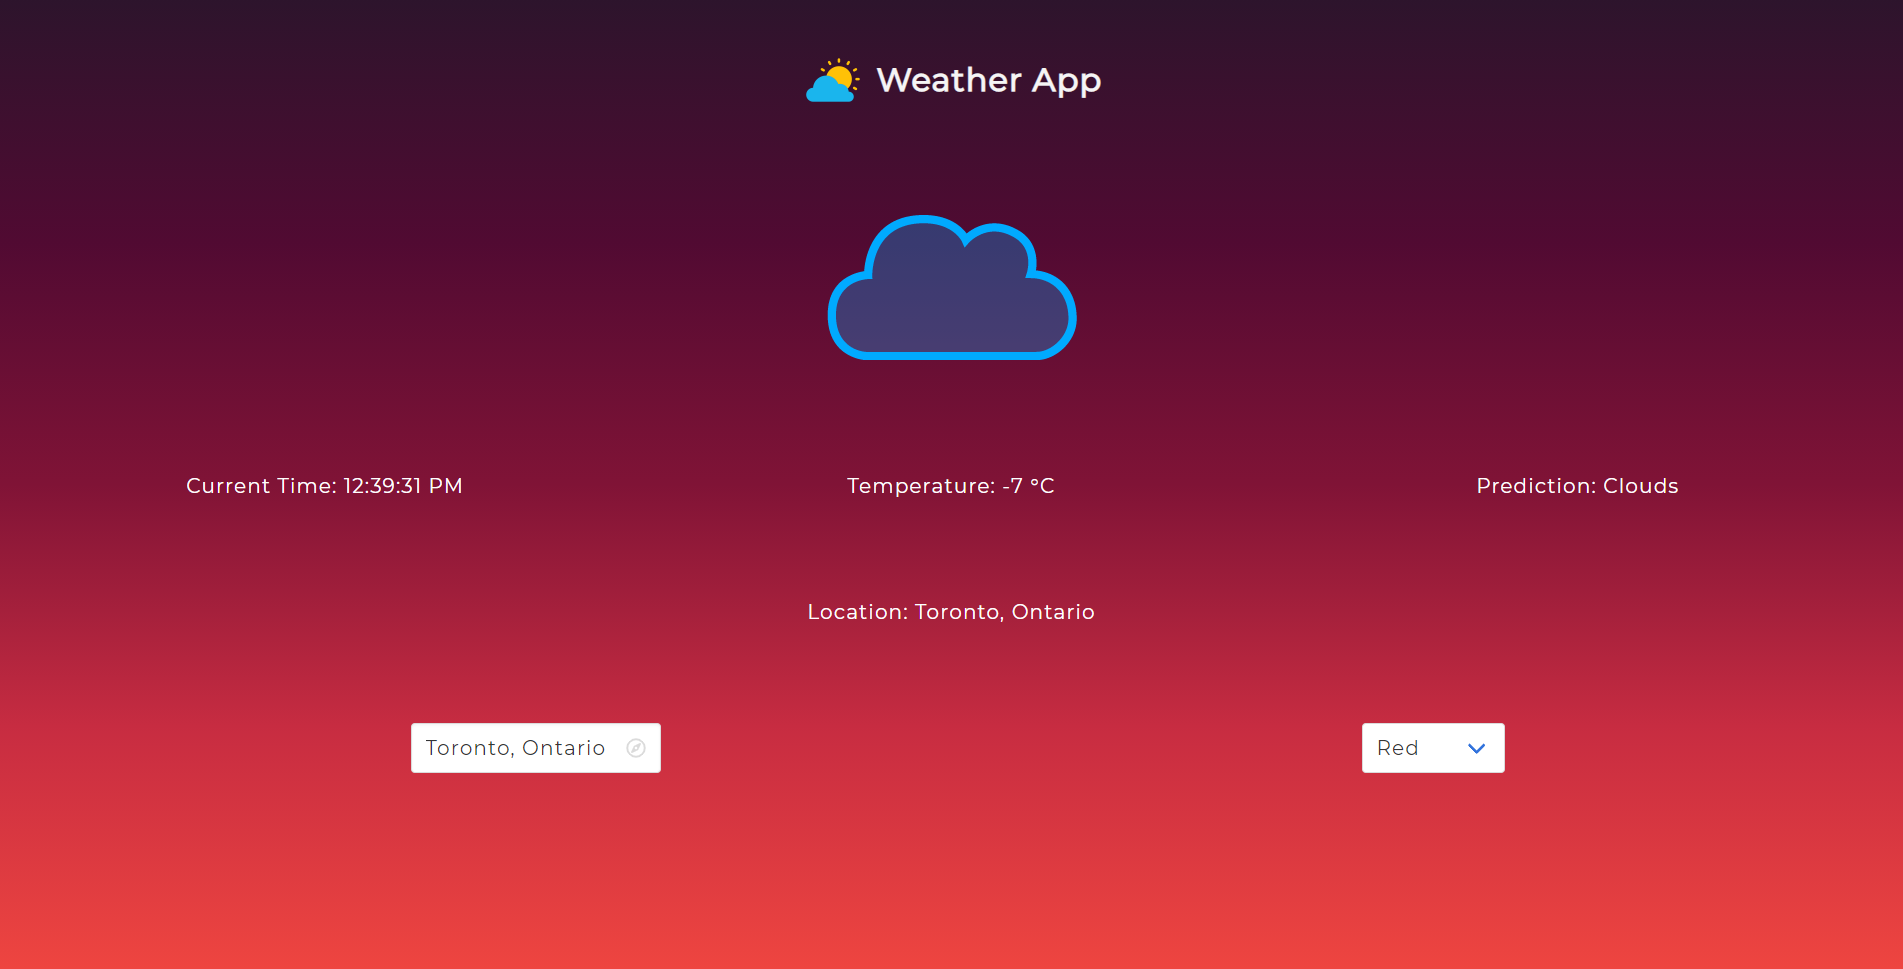
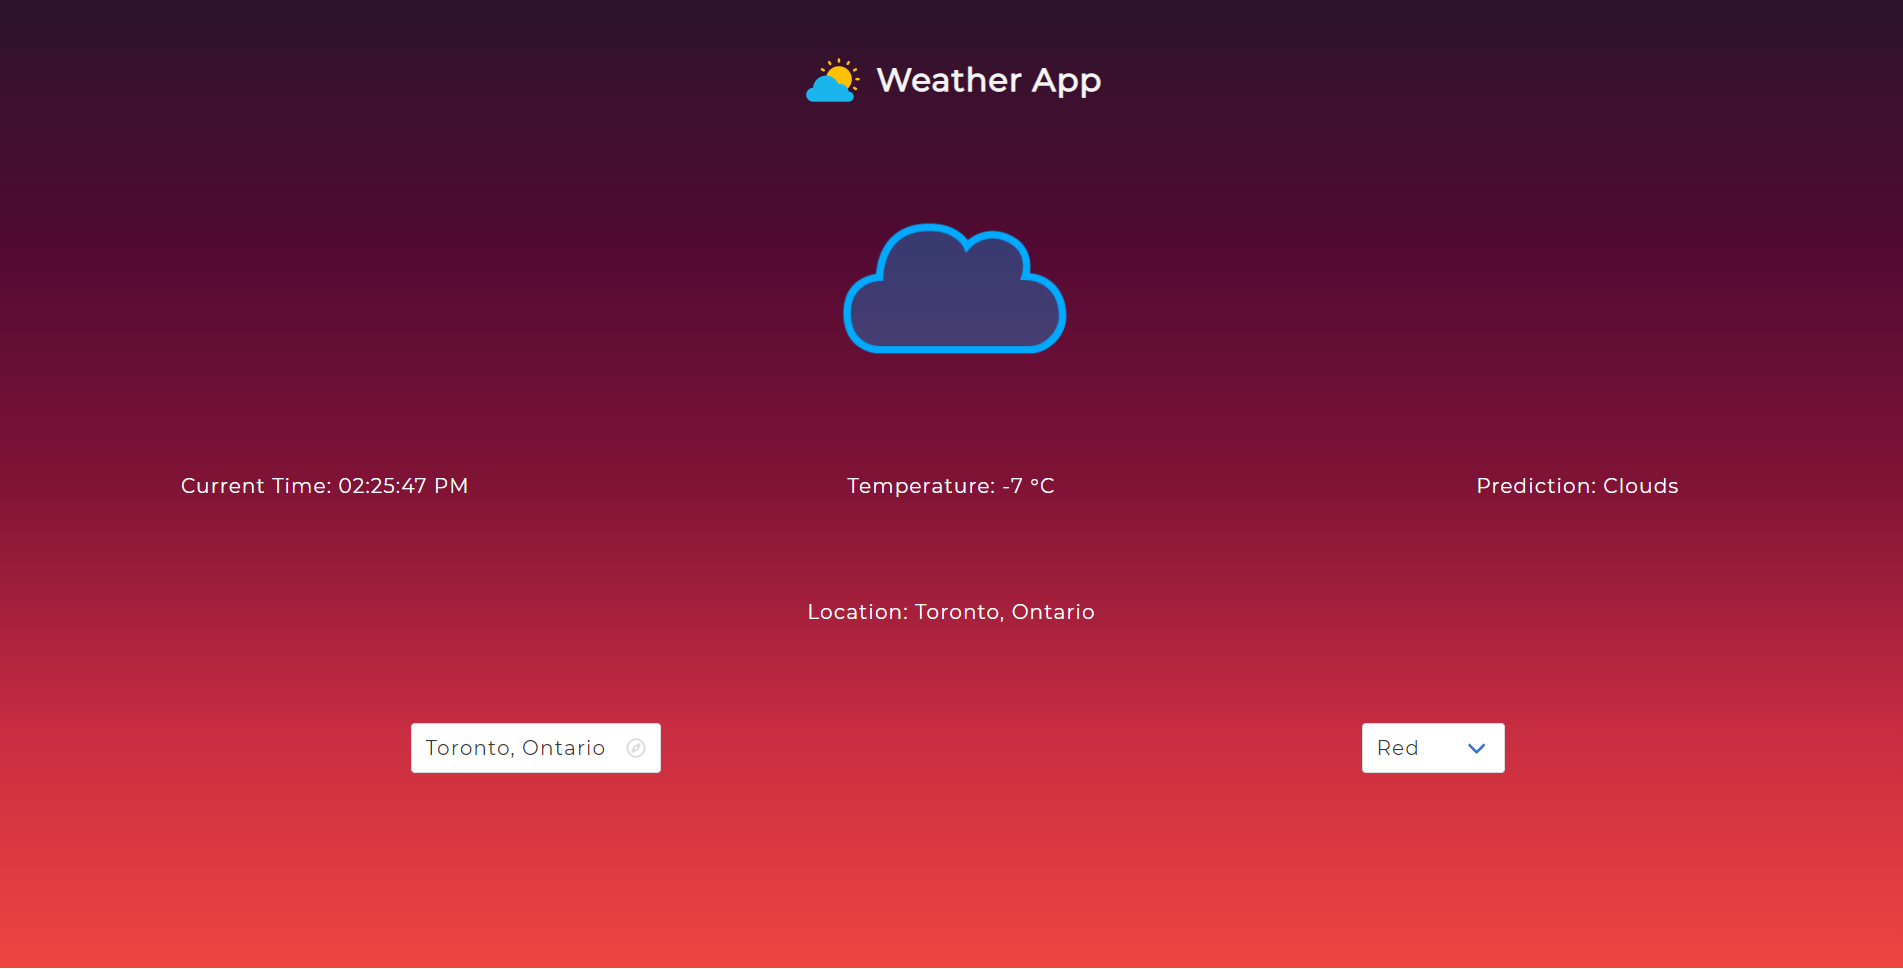
Updating images, Updating hour conversion

diff --git a/scripts/script.js b/scripts/script.js
@@ -32,24 +32,11 @@ function getTime() {
     let s = date.getSeconds();
     let session = 'AM';
 
-    if (h < 0) {
-        h = 12 - h;
-    }
-
     if (h == 12) {
         session = 'PM';
     }
 
-    if (h == 0) {
-        h = 12;
-    }
-
-    if (h > 23) {
-        h = h - 23;
-    }
-
     if (h > 12) {
-        h = h - 12;
         session = 'PM';
     }
 
@@ -65,8 +52,22 @@ function getTime() {
 function getHour() {
     const timezone = localStorage.getItem('timezone');
     const d = new Date();
-    const n = d.getUTCHours() + parseInt(timezone);
-    return n;
+    let h = d.getUTCHours() + parseInt(timezone);
+    if (h < 0) {
+        h = 12 - h;
+    }
+    if (h == 0) {
+        h = 12;
+    }
+
+    if (h > 23) {
+        h = h - 23;
+    }
+
+    if (h > 12) {
+        h = h - 12;
+    }
+    return h;
 }
 
 /**
@@ -99,7 +100,7 @@ function loadWeather() {
                     switch (prediction) {
                         case 'Sunny':
                         case 'Clear':
-                            if (getHour(data.timezone) <= '6' || getHour(data.timezone) >= '18') {
+                            if (getHour() <= 6 || getHour() >= '18') {
                                 document.getElementById('weatherIcon').src =
                                     './assets/img/moon.png';
                             } else {
